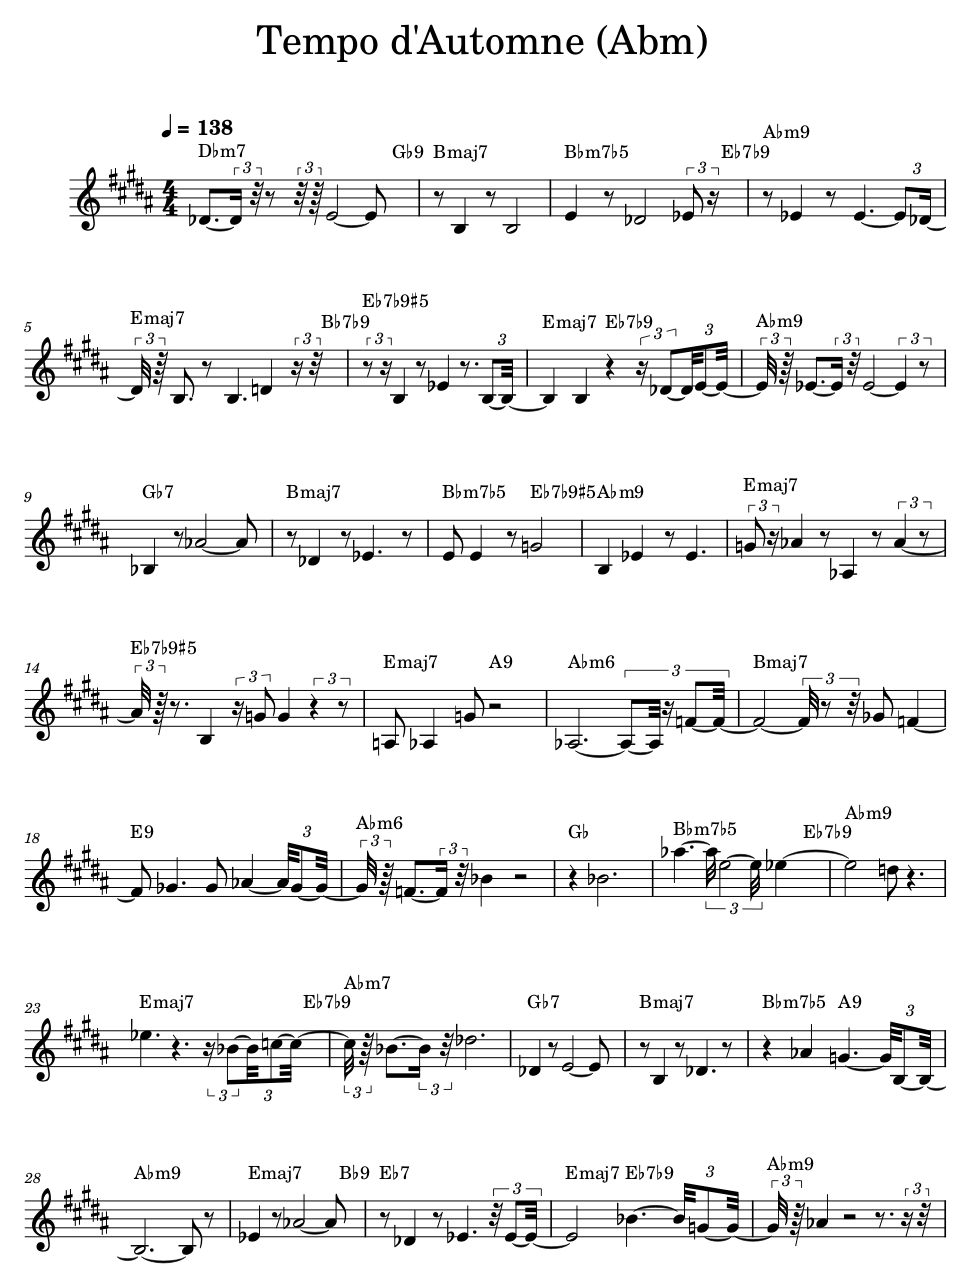
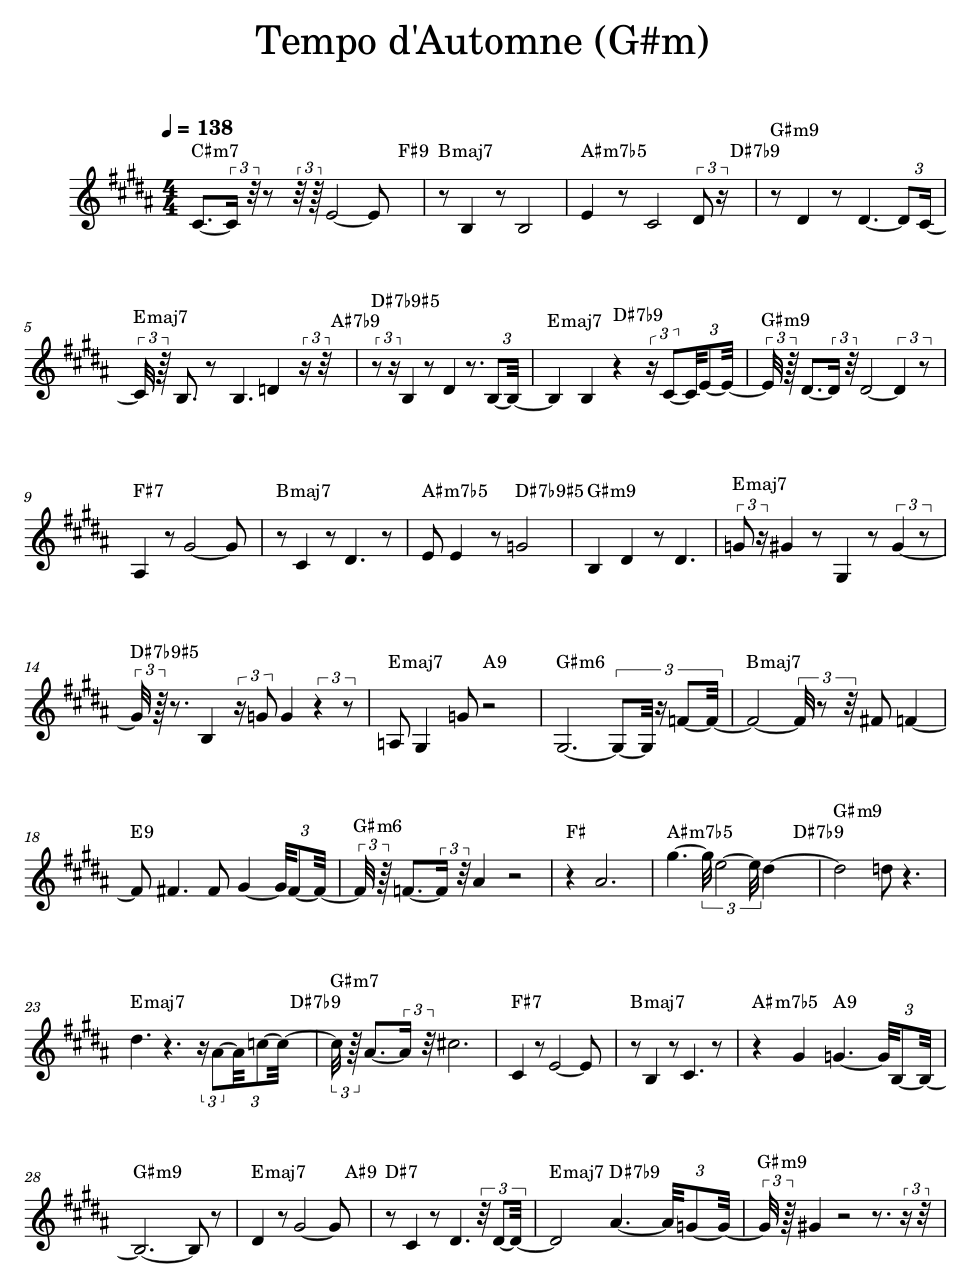
update 2026-10-29 16:38

diff --git a/player/core.js b/player/core.js
@@ -37,7 +37,7 @@ var FL = ["C", "Db", "D", "Eb", "E", "F", "Gb", "G", "Ab", "A", "Bb", "B"];
 var FLAT_KEYS = { 5: 1, 10: 1, 3: 1, 8: 1, 1: 1, 6: 1, 11: 0 };
 function pcName(pc, flats) { pc = ((pc % 12) + 12) % 12; return flats ? FL[pc] : SH[pc]; }
 function keyPrefersFlats(pc, minor) {
-  if (minor) return { 9: 0, 4: 0, 11: 0, 6: 0, 1: 0, 2: 1, 7: 1, 0: 1, 5: 1, 10: 1, 3: 1, 8: 1 }[pc] === 1;
+  if (minor) return { 9: 0, 4: 0, 11: 0, 6: 0, 1: 0, 8: 0, 2: 1, 7: 1, 0: 1, 5: 1, 10: 1, 3: 1 }[pc] === 1;      /* 短調の主音 G♯（A♭）は、調号が♯5つ（G♯m）なので♯で綴る（以前は♭で綴って調号と食い違った） */
   return FLAT_KEYS[pc] === 1;
 }
 

diff --git a/demos/2026-10-30_soul_auto32m/info.md b/demos/2026-10-30_soul_auto32m/info.md
@@ -1,9 +1,9 @@
-# Tempo d'Automne (Abm)
+# Tempo d'Automne (G#m)
 
 - 日付: 2026-10-30
 - 曲種: ソウル・ジャズ／ハードバップ
 - 形式: AABA 32小節・短調（毎回ちがう）
-- 調: Abm
+- 調: G#m
 - テンポ: 138 BPM（自動作曲の生成テンポ）
 - 種(seed): 20261030／生成器: Hot Club Generator（第155版）
 
@@ -20,7 +20,7 @@
 ### 概要
 - 曲種: ソウル・ジャズ／ハードバップ
 - 形式: AABA 32小節・短調（毎回ちがう）（1コーラス 32小節）
-- 調: Abm／拍子: 4/4
+- 調: G#m／拍子: 4/4
 - 全体: 約172小節（約4分59秒）
 - スタイル設定: 跳ね方 60%／伴奏 organ／ベース walk4／ドラム swing
 
@@ -38,10 +38,10 @@
 聴きどころ: ソロは2コーラス、ソロの後に4小節ごとの掛け合い。
 
 ### コード進行（1コーラス）
-| Dbm7 Gb9 | Bmaj7 | Bbm7b5 Eb7b9 | Abm9 | Emaj7 Bb7b9 | Eb7alt | Emaj7 Eb7b9 | Abm9 |
-| Gb7 | Bmaj7 | Bbm7b5 Eb7alt | Abm9 | Emaj7 | Eb7alt | Emaj7 A9 | Abm6 |
-| Bmaj7 | E9 | Abm6 | Gb | Bbm7b5 Eb7b9 | Abm9 | Emaj7 Eb7b9 | Abm7 |
-| Gb7 | Bmaj7 | Bbm7b5 A9 | Abm9 | Emaj7 Bb9 | Eb7 | Emaj7 Eb7b9 | Abm9 |
+| C#m7 F#9 | Bmaj7 | A#m7b5 D#7b9 | G#m9 | Emaj7 A#7b9 | D#7alt | Emaj7 D#7b9 | G#m9 |
+| F#7 | Bmaj7 | A#m7b5 D#7alt | G#m9 | Emaj7 | D#7alt | Emaj7 A9 | G#m6 |
+| Bmaj7 | E9 | G#m6 | F# | A#m7b5 D#7b9 | G#m9 | Emaj7 D#7b9 | G#m7 |
+| F#7 | Bmaj7 | A#m7b5 A9 | G#m9 | Emaj7 A#9 | D#7 | Emaj7 D#7b9 | G#m9 |
 
 よく出る和音の種類: maj7×11、7b9×6、m9×6、9×5、m7b5×4、7alt×3
 
